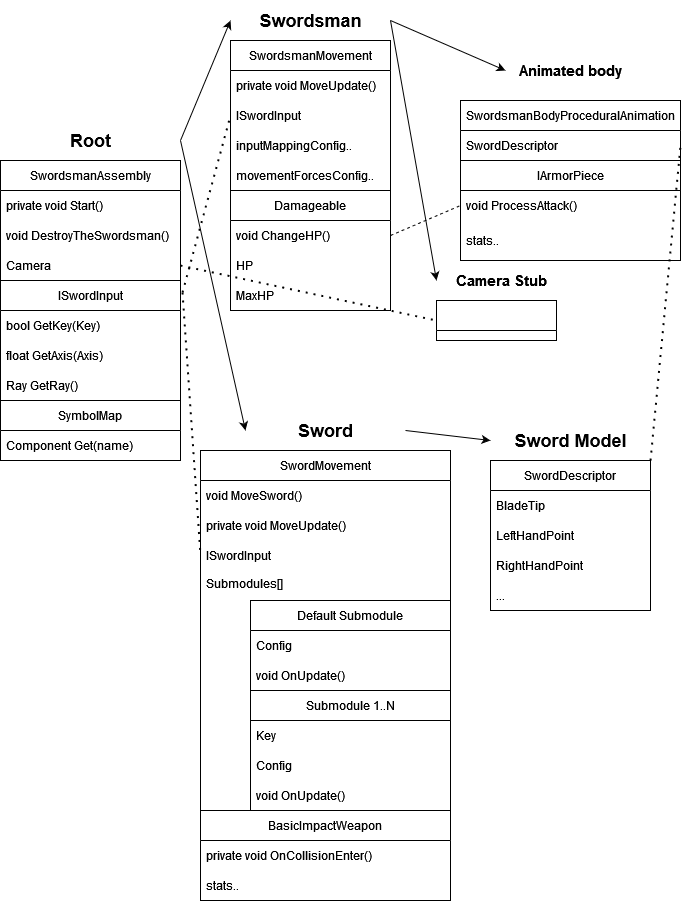
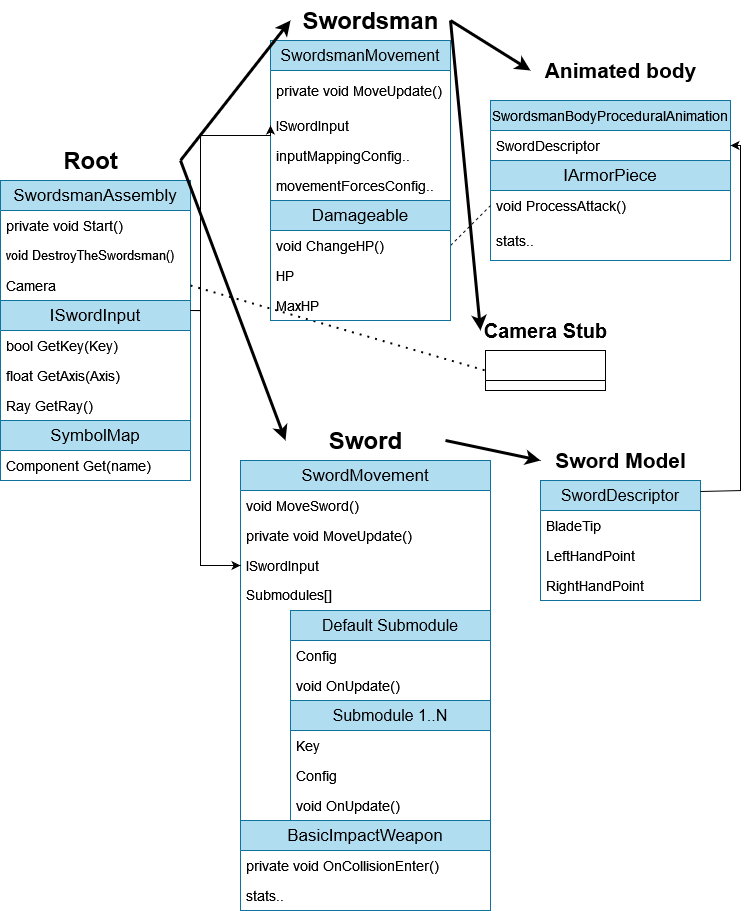
better structure diagrams

Changed region(s): [[0.0, 0.0, 1.0, 0.5283], [0.2767, 0.404, 0.9839, 1.0]]

diff --git a/cs/kap05.tex b/cs/kap05.tex
@@ -23,11 +23,11 @@ Vynecháme algoritmy jednotlivých modulů ovládání - ty jsme již podrobně 
 
 \begin{figure}[p]\centering
   \center
-  \includegraphics[width=145mm]{../img/Structure-diagram.png}
-  \caption{Diagram znázorňující strukturu našeho systému - zopakování}
+  \includegraphics[width=145mm]{../img/Structure-diagram-impl.png}
+  \caption{Diagram znázorňující strukturu našeho systému - modře vlastní komponenty, zeleně vestavěné}
   \label{obr05:objectModelDiagramReprise}
 \end{figure} 
-
+ 
 \pagebreak
 
 %------------------------------------------------------------------------------------------------------------------------------------------------------------------------------------------------------------------------------------------------------------%
